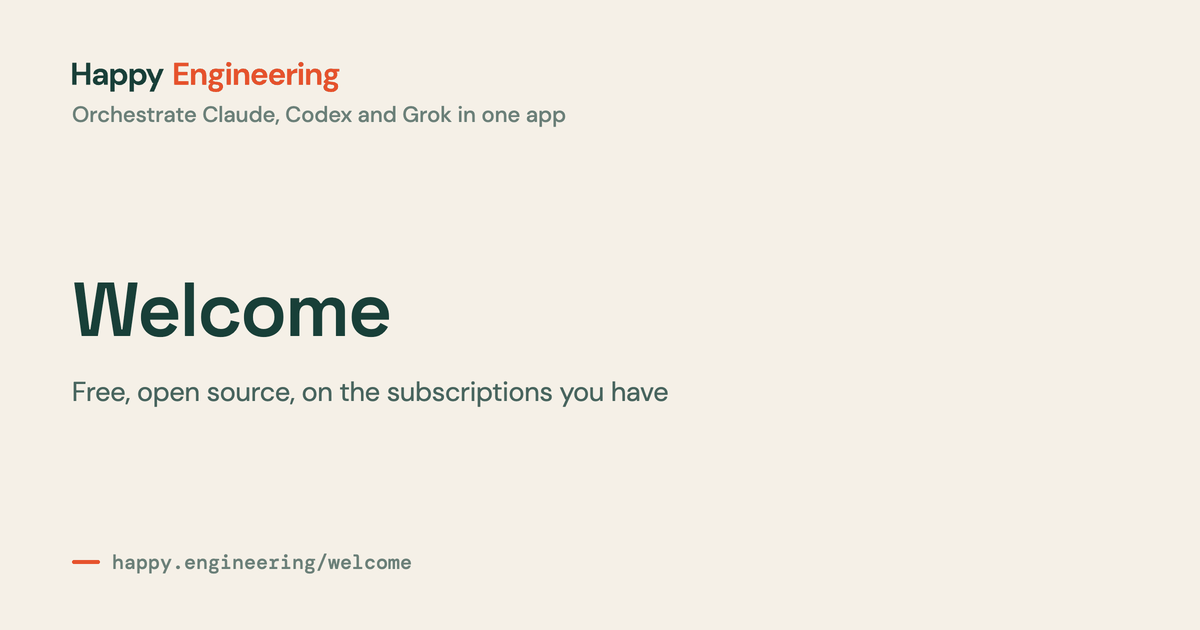
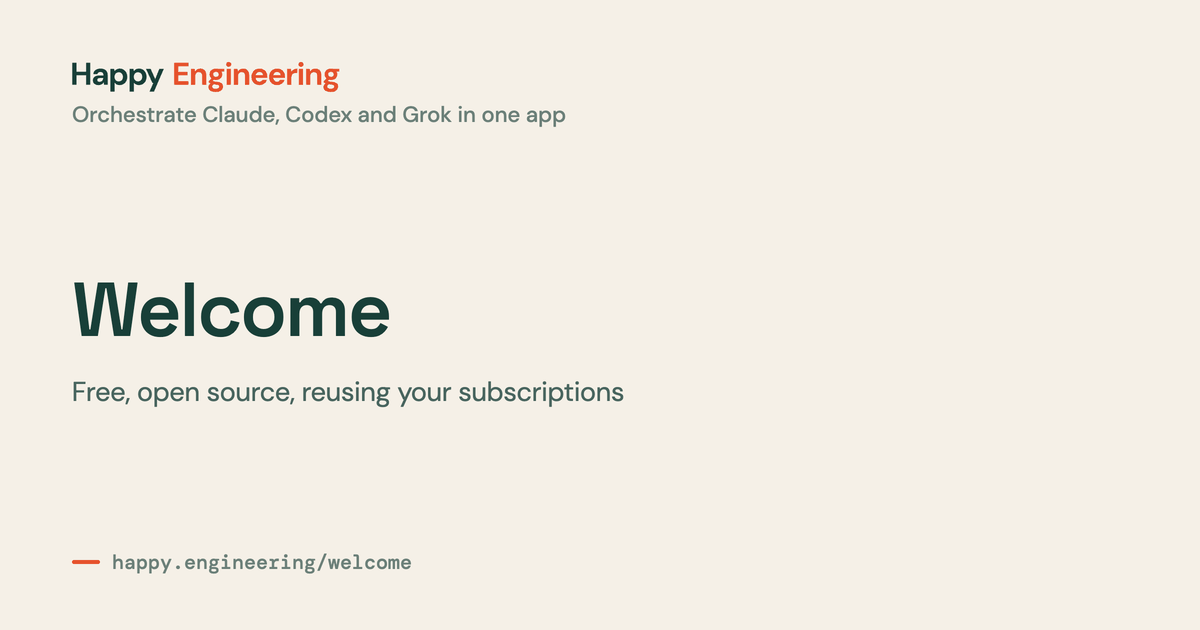
Messaging consistency: Claude, Codex and Grok; team-server multiplayer; former name in the snippet
- Homepage Multi-provider card names Claude, Codex, and Grok, not Astra and Fable.
- Welcome's Multiplayer bullet matches the homepage: deploy a team server, everyone
  signs in as themselves. Agents no longer says a teammate joins by agent ID; there
  is no per-session invite (multiplayer.mdx, happy-agent docs/team-mode.md).
- Homepage meta description and JSON-LD add "formerly Happy Coder" and desktop and
  phone; the link preview keeps its text.
- Welcome's card line drops "the subscriptions you have" (DESIGN.md).
- Contextual links to /mobile-app/, /desktop-app/ and /guides/remote-server/ from
  Welcome, Quick Start, Mobile Access and Multiplayer; Desktop app and Phone app in
  the footer, which now wraps.
- /tools/ and /tools/agents/, the old tools directory still in search results,
  redirect to / and /agents/.

Changed region(s): [[0.2467, 0.6032, 0.555, 0.6635]]

diff --git a/index.html b/index.html
@@ -6,7 +6,7 @@
 
     <title>Happy — Open-Source Harness to Orchestrate Claude Code, Codex &amp; Grok</title>
     <meta name="application-name" content="Happy" />
-    <meta name="description" content="Orchestrate Claude, Codex and Grok in one app. Happy is an open-source harness that reuses the subscriptions you already pay for." />
+    <meta name="description" content="Orchestrate Claude, Codex and Grok in one app, on desktop and phone. Happy, formerly Happy Coder, is an open-source harness that reuses your subscriptions." />
     <meta name="author" content="Happy Engineering" />
     <meta name="creator" content="Happy Engineering" />
     <meta name="publisher" content="Happy Engineering" />
@@ -47,7 +47,7 @@
         "name": "Happy",
         "alternateName": ["Happy Desktop", "Happy Coder"],
         "url": "https://happy.engineering/",
-        "description": "Happy is an open-source harness for orchestrating coding agents: Claude, Codex, and Grok in one desktop app, reusing the subscriptions you already pay for.",
+        "description": "Happy, formerly Happy Coder, is an open-source harness for orchestrating coding agents: Claude, Codex, and Grok in one app on desktop and phone, reusing the subscriptions you already pay for.",
         "applicationCategory": "DeveloperApplication",
         "operatingSystem": ["macOS", "Windows", "Linux", "iOS", "Android"],
         "downloadUrl": "https://github.com/slopus/happy-desktop/releases/latest",

diff --git a/src/siteMetadata.ts b/src/siteMetadata.ts
@@ -77,9 +77,12 @@ export function socialVideoTags(video: NonNullable<PageMetadata['socialVideo']>)
 export const homepageMetadata: PageMetadata = {
   title: 'Happy — Open-Source Harness to Orchestrate Claude Code, Codex & Grok',
   description:
-    'Orchestrate Claude, Codex and Grok in one app. Happy is an open-source harness that reuses the subscriptions you already pay for.',
+    'Orchestrate Claude, Codex and Grok in one app, on desktop and phone. Happy, formerly Happy Coder, is an open-source harness that reuses your subscriptions.',
   canonicalPath: '/',
   socialTitle: 'Any Model. Your Subscription. Happy Harness.',
+  // The link preview keeps its own text; the search snippet above adds the old name and the phone.
+  socialDescription:
+    'Orchestrate Claude, Codex and Grok in one app. Happy is an open-source harness that reuses the subscriptions you already pay for.',
 }
 
 /** The original Happy CLI docs. Kept at their URLs, in maintenance mode. */

diff --git a/src/style.css b/src/style.css
@@ -235,7 +235,7 @@ h1 em, h2 em { color: #e6522c; font-style: normal; font-weight: 600; }
 .footer-meta { text-align: right; }
 .footer-meta p { color: #47645e; font-size: .78rem; margin: .6rem 0 0; }
 .footer-meta .footer-descriptor { color: #183f38; font-size: .9rem; margin-top: .45rem; }
-.footer-links { display: flex; font-size: .8rem; gap: 1.25rem; justify-content: flex-end; margin-bottom: 1.1rem; }
+.footer-links { display: flex; flex-wrap: wrap; font-size: .8rem; gap: .6rem 1.25rem; justify-content: flex-end; margin-bottom: 1.1rem; }
 .footer-links a { border-bottom: 1px solid transparent; }
 .footer-links a:hover { border-color: currentColor; }
 .footer-links .footer-link-quiet { color: #6b7f78; }

diff --git a/src/DesktopApp.tsx b/src/DesktopApp.tsx
@@ -11,7 +11,7 @@ import './happy-one-preview.css'
 const features = [
   {
     title: 'Multi-provider',
-    body: 'Astra, Fable, and Grok in one app, each with its vendor\'s own prompts and tools. Give every task the model that fits, and delegate to subagents on any of them.',
+    body: 'Claude, Codex, and Grok in one app, each with its vendor\'s own prompts and tools. Give every task the model that fits, and delegate to subagents on any of them.',
   },
   {
     title: 'Reuse your subscriptions',

diff --git a/src/documents.ts b/src/documents.ts
@@ -202,7 +202,7 @@ const desktopDocuments: DocumentDefinition[] = [
     sourcePath: '/content/desktop/index.mdx',
     title: 'Welcome',
     description: 'Happy is an open-source harness for orchestrating Claude, Codex, and Grok agents in one desktop app, reusing your subscriptions: what you get, where to start.',
-    cardLine: 'Free, open source, on the subscriptions you have',
+    cardLine: 'Free, open source, reusing your subscriptions',
     group: 'Start here',
   },
   {

diff --git a/src/SiteChrome.tsx b/src/SiteChrome.tsx
@@ -105,6 +105,8 @@ export function SiteFooter({ product = HAPPY, additionalLinks }: { product?: Pro
         <div className="footer-meta">
           <div className="footer-links" aria-label="Footer navigation">
             <a href={product.docsHome}>Docs</a>
+            <a href="/desktop-app/">Desktop app</a>
+            <a href="/mobile-app/">Phone app</a>
             <a href="/privacy/">Privacy</a>
             <a href="/terms/">Terms</a>
             {additionalLinks}

diff --git a/src/Router.tsx b/src/Router.tsx
@@ -49,6 +49,9 @@ const movedPaths: Record<string, string> = {
   '/thesis': '/vision',
   // The WorkOS post was published at /team-sign-in-workos/ before the Blog moved to short URLs.
   '/team-sign-in-workos': '/workos',
+  // The old Claude Code tools directory, still in search results.
+  '/tools': '/',
+  '/tools/agents': '/agents',
 }
 
 /** Sections that moved wholesale. The old prefix keeps resolving, path and all. */
